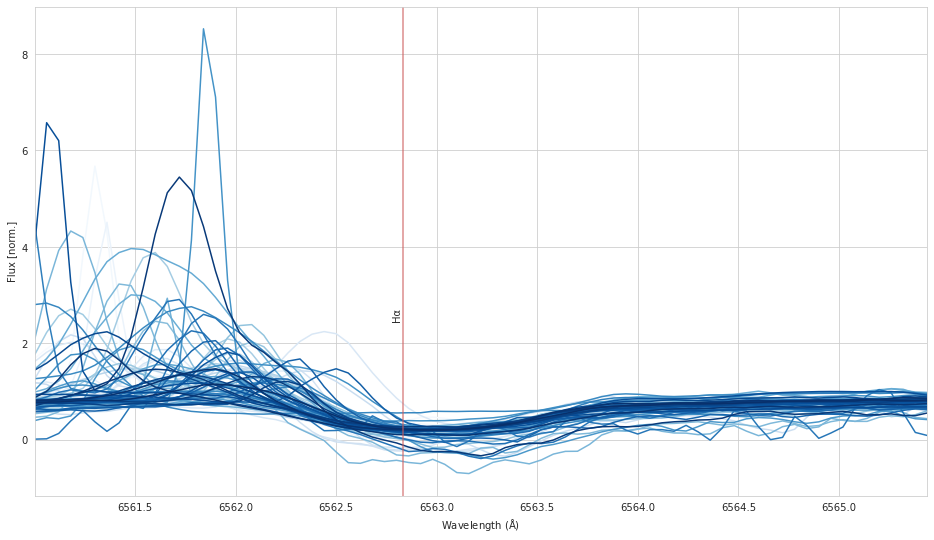
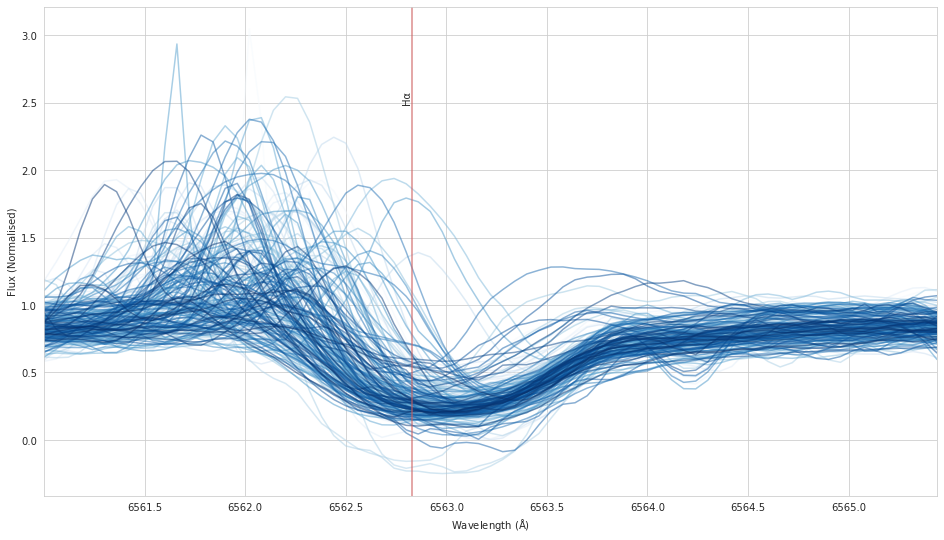
Updated ch 7

diff --git a/chap_6_nn.tex b/chap_6_nn.tex
@@ -1,5 +1,4 @@
-\chapter{Data Driven Classification of P Cygni and
-Inverse P Cygni Spectra with Autoencoders and DTW}
+\chapter{Data Driven Classification of Emission-line Spectra}
 
 \section{A Brief Recap}
 
@@ -8,18 +7,18 @@ The following conclusions can be drawn from the results presented in the precedi
 \begin{enumerate}
     \item The curse of dimensionality presents a significant challenge when working with high resolution data from million star surveys such as GALAH DR3. 
     \item While popular,  dimensionality reduction techniques such as t-SNE may not be sufficiently robust at identifying emission line spectra. Furthermore, the 2-dimensional t-SNE representation may not be sensitive to the morphological differences between emission line spectra and non-emission line spectra.
-    \item Given a data set with emission line spectra, DTW based aggolomerative hierarchical clustering can be used effectively to identify P Cygni and inverse P Cygni spectra.
+    \item Given a data set with emission line spectra, DTW based aggolomerative hierarchical clustering can be used effectively to identify P Cygni, inverse P Cygni and other emission-line spectra.
 \end{enumerate}
 
-This chapter builds on these conclusions and presents a proof of concept P Cygni and inverse P Cygni identification pipeline. DTW based agglomerative hierarchical clustering, which  was introduced in chapter 4, forms the basis of this pipeline. Furthermore, this pipeline relies on the pre-selection of H$\alpha$ emission line spectra using an autoencoder first introduced by Čotar et al.
+This chapter builds on these conclusions and presents a proof of concept pipeline for the identification and classification of emission-line spectra. DTW based agglomerative hierarchical clustering, which  was introduced in Chapter 4, forms the basis of this pipeline. Furthermore, this pipeline relies on the pre-selection of H$\upalpha$ emission-line spectra using an autoencoder first introduced by Čotar et al.
 
-\section{Autoencoders for H$\alpha$ Emission Line Spectra Selection}
+\section{Selecting H$\upalpha$ Emission-line Spectra}
 
-Chapter 3 presented an autoencoder neural network that is capable of identifying H$\alpha$ emission line spectra \cite{vcotar2021galah}. This work adapts this approach and exploits it as a pre-processing step prior to the application of DTW based agglomerative hierarchical clustering. The methodology is as follows.
+Chapter 3 presented an autoencoder neural network that is capable of identifying H$\upalpha$ emission line spectra \cite{vcotar2021galah}. This work adapts this approach and exploits it as a pre-processing step prior to the application of DTW based agglomerative hierarchical clustering. The methodology is as follows.
 
-This autoencoder learns the latent space representation of non-emission line spectra but does not learn the latent space representation of emission line spectra accurately. This latent space represents each higher dimensional high resolution spectrum as a 5-dimensional vector. This process is known as encoding. Once the training phase is completed, the autoencoder was fed the total DR3 data set such that it generates predictions for each spectrum. This process is known as decoding. 
+This autoencoder learns the latent space representation of non-emission line spectra but \emph{does not} learn the latent space representation of emission line spectra accurately. This latent space represents each higher dimensional high resolution spectrum as a 5-dimensional vector. This process is known as encoding. Once the training phase is completed, the autoencoder was fed the total DR3 data set such that it generates predictions for each spectrum. This process is known as decoding. 
 
-The training data is deliberately biased towards non-emission line spectra (so-called normal spectra). Thus for non-emission line spectra, the predicted spectra will match the data more accurately than for emission line spectra. The flux difference between a predicted spectrum and it's observed (original) data counterpart can be exploited to flag emission line stars. This flagging can be accomplished by computing the equivalent width of this "difference spectrum" around the H$\alpha$ line.
+The training data is deliberately biased towards non-emission line spectra (so-called normal or typical spectra). Thus for non-emission line spectra, the predicted spectra will match the data more accurately than for emission line spectra. The flux difference between a predicted spectrum and it's observed (original) data counterpart can be used to flag emission line stars. This flagging can be accomplished by computing the equivalent width of this "difference spectrum" around the H$\upalpha$ line.
 
 \subsection{Autoencoder Architecture and Training}
 
@@ -37,9 +36,9 @@ connections to neighboring layers.}
 
 Čotar et al. recommends inverting the flux values (1 - normalised flux) prior to training and prediction. Greater training stability was achieved by this inversion. Furthermore, they recommend an epoch size of 350 and a batch size of 40,000 spectra. 10\% of the samples were selected as the validation set. This work follows the same conventions. 
 
-For training, the autoencoder requires a training set that's either significantly biased towards non-emission line spectra around H$\alpha$ or contains non-emission line spectra exclusively. In order to select these spectra in DR3, this work uses the quality criteria recommended by Čotar et al.\cite{vcotar2021galah}, Buder et al.\cite{buder2021galah+} and Kos et al.\cite{kos2017galah}. 
+For training, the autoencoder requires a training set that's either significantly biased towards non-emission line spectra around H$\upalpha$ or contains non-emission line spectra exclusively. In order to select these spectra in DR3, this work uses the quality criteria recommended by Čotar et al.\cite{vcotar2021galah}, Buder et al.\cite{buder2021galah+} and Kos et al.\cite{kos2017galah}. 
 
-While these criteria cannot fully guarantee that the autoencoder will be trained on non-emission line spectra exclusively, prior work by Čotar et al. indicate that they are sufficiently robust for the purpose of training the network. The Data Central SQL/ADQL catalogue query service was used to retrieve GALAH DR3 \texttt{sobject\_id} values that matched these criteria.
+While these criteria cannot fully guarantee that the autoencoder will be trained on non-emission line spectra exclusively, prior work by Čotar et al. indicate that they are sufficiently robust for the purpose of training the network. The Data Central SQL/ADQL catalogue query service was used to retrieve GALAH DR3 \texttt{sobject\_id} values that matched these criteria. Namely,
 
 \begin{lstlisting}[language=SQL]
 SELECT sobject_id
@@ -71,15 +70,15 @@ This query returned 396,338 spectra. The red arm data was re-sampled to a common
 \caption{Prediction accuracy of the red arm training dataset at different training epochs.}
 \end{figure}
 
-The prediction error for training is computed as a sum of all absolute differences between the input and output data set. Figure 6.2 shows the prediction error of the training process as a function of epoch. At face value, it appears that over-fitting has taken place, however this is a desirable feature in the context of detecting emission line spectra as the network must be sufficiently biased towards non-emission line spectra. Furthermore, these results are in agreement with those presented in Čotar et al.
+The prediction error for training is computed as a sum of all absolute differences between the input and output data set. Figure 6.2 shows the prediction error of the training process as a function of epoch. These results are in agreement with those presented in Čotar et al.
 
-It is expected that the autoencoder will perform poorly when attempting to reconstruct or predict emission line spectra/fluxes. Conversely, it is expected that it will perform well on emission line spectra. This behaviour has significant implications for the detection of H$\alpha$ emission candidates.
+It is expected that the autoencoder will perform poorly when attempting to reconstruct or predict emission line spectra/fluxes. Conversely, it is expected that it will perform well on emission line spectra. This behaviour has significant implications for the detection of H$\upalpha$ emission-line spectra wjhich are discussed in the next section.
 
-\section{Prediction and Results}
+\subsection{Decoding and Prediction}
 
 Once the autoencoder was trained, predicted normalised flux of the red arm for each spectrum in DR3 was calculated. Since the input data for training was inverted, all DR3 spectra were inverted prior to input. Thus predicted results from the autoencoder were also inverted.
 
-The difference spectra between the predicted and the original DR3 spectra (observed spectra) were computed. Presented below are the inverted difference spectra for a non-emission line spectrum and a known emission line spectrum in DR3 around H$\alpha$. Note that the non-emission line spectrum produces a difference spectrum with an approximately flat response while the emission line spectrum does not. 
+The difference spectra between the predicted and the original DR3 spectra (observed spectra) were computed. Presented below are the inverted difference spectra for a non-emission line spectrum and a known emission line spectrum in DR3 around H$\upalpha$. Note that the non-emission line spectrum produces a difference spectrum with an approximately flat response while the emission line spectrum does not. 
 
 \begin{equation}
    f_{difference} = f_{observed} - f_{predicted}
@@ -97,42 +96,74 @@ The difference spectra between the predicted and the original DR3 spectra (obser
 \caption{An non-emission line spectrum, the autoencoder prediction and corresponding difference spectrum. Note the flat response of the difference spectrum. This response can be quantified by calculating its equivalent width.}
 \end{figure}
 
-The equivalent width within the range 6561\r{A} - 6565\r{A} was determined using the popular Python packages \texttt{astropy}\cite{astropy:2018}\cite{astropy:2013} and \texttt{specutils}\cite{specutils}. For consistency, these widths were calculated for the inverted difference spectra. Čotar et al. used an equivalent width cut-off of 0.25 to separate emission line spectra from DR3. This work follows the same approach. The histogram of equivalent widths of the 6,093 spectra thus obtained was examined and was in agreement with the results from Čotar et al. 
+The equivalent width within the range 6561\r{A} - 6565\r{A} was determined using the popular Python packages \texttt{astropy}\cite{astropy:2018}\cite{astropy:2013} and \texttt{specutils}\cite{specutils}. For consistency, these widths were calculated for the inverted difference spectra. Čotar et al. used an equivalent width cut-off of 0.25 to separate emission line spectra from DR3. This work tested the sensitivity of this cut-off parameter. Selecting a lower threshold for this parameter like EW > 0.20 allows for a wider selection of potential H$\upalpha$ emission-line spectra while a higher threshold such as EW > 0.50 may restrict the selection to only the strongest emitters. The rationale for choosing EW > 0.25 in Čotar et al. is presumably based on a trial and error approach. This work took a similar strategy to fine tune this parameter and select a reasonable population of H$\upalpha$ emission-line spectra by setting EW > 0.22. This value provided the best overall performance. However, this cut-off does not guarantee that the maximum number of H$\upalpha$ emission-line spectra is selected. 
+
+Given that Čotar et al. used a different population for their work, the H$\upalpha$ emission-line spectra discovered cannot be directly compared to those found in GALAH DR3 using the method above. It can be noted that only 4556 out of 10,364 objects identified by Čotar et al. were present in GALAH DR3 sample which comprised of 396,338 spectra. These 4556 were also captured and recovered within the H$\upalpha$ emission-line spectra discovered using the autoencoder and setting EW > 0.22. The summary statistics for each sample are provided in the appendix.
 
 \begin{figure}[!htb]
 \centering
 \includegraphics[scale=0.50]{figures/EW hist.png}
-\caption{The equivalent width (EW) distribution of the inverted difference spectra of the emission line candidates identified by the autoencoder. Here EW > 0.25.}
+\caption{The equivalent width (EW) distribution of the inverted difference spectra of the emission-line spectra identified in GALAH DR3. Here EW > 0.22.}
 \end{figure}
 
-\section{DTW Based Agglomerative Hierarchical Clustering}
 
-The next step in the analysis pipeline is identical to the methodology first introduced in Chapter 4. DTW distances were calculated for the emission line spectra and agglomerative hierarchical clustering was used to cluster and classify P Cygni and inverse P Cygni spectra. In addition to these clusters, eight other clusters were observed. Further details are provided in the Appendix.
+\section{Applying Dynamic Time Warping and Agglomerative Hierarchical Clustering}
+
+Once the H$\upalpha$ emission-line spectra were selected, the data was passed on-to the next step of the analytics pipeline. The DTW distance matrix was computed for each spectrum ensuring that only masked data was presented to the \texttt{FastDTW} algorithm. The masked region being 6561\r{A} - 6565\r{A} \cite{traven2017galah}. As mentioned Chapter 4 this approach reduces run-time and computational complexity. 
 
 \begin{figure}[!htb]
 \centering
-\includegraphics[scale=0.45]{figures/dtw distances dr3.png}
+\includegraphics[scale=0.50]{figures/dtw distances dr3.png}
 \caption{Pairwise DTW distances for emission line spectra identified in DR3. Darker colours indicate samples that are dissimilar.}
 \end{figure}
 
 \begin{figure}[!htb]
 \centering
-\includegraphics[scale=0.60]{figures/dtw distances dr3 zoomed.png}
-\caption{Pairwise DTW distances for emission line spectra identified in DR3. Darker colours indicate samples that are dissimilar (zoomed).}
+\includegraphics[scale=0.50]{figures/dtw distances dr3 zoomed.png}
+\caption{Pairwise DTW distances for emission line spectra identified in DR3 (zoomed). Darker colours indicate samples that are dissimilar.}
 \end{figure}
 
-Using this methodology, this work identified 33 P Cygni spectra and 85 inverse P Cygni spectra. Ensemble plots of these spectra are provided below.
+Once the distance calculation was completed, agglomerative hierarchical clustering was performed ensuring complete linkage. Here, this work deviates from the number of clusters used in Chapter 4. It was noted that the H$\upalpha$ emission-line spectra identified in the previous stage of the pipeline exhibited more complex emission line morphologies than those identified by Čotar et al. 
+
+This richer variety of morphologies can be attributed to the fact that the DR3 population is fundamentally different to the survey data used by Čotar et al. This can be demonstrated by observing the number of P Cygni spectra that separate into a cluster as the number of clusters is increased beyond the value 10 used in Chapter 4. The maximum number of P Cygni and inverse P Cygni were separated when the number of clusters was set to 45. This is significantly higher than what was observed in the results presented in Chapter 4. The tree generated by agglomerative hierarchical clustering is thus cut at a depth of 45 as opposed to 10 for this specific sample for a majority separation of P Cygni and inverse P Cygni spectra. 
 
 \begin{figure}[!htb]
 \centering
 \includegraphics[scale=0.45]{figures/p cygni ensemble.png}
-\caption{P Cygni spectra identified. Note that one outlier is present in this cluster.}
+\caption{Ensemble plot of 243 P Cygni spectra identified in DR3 using DTW.}
+\end{figure}
+
+\begin{figure}[!htb]
+\centering
+\includegraphics[scale=0.45]{figures/p cugni 2.png}
+\caption{Ensemble plot of 53 P Cygni spectra identified in DR3 using DTW. These were not included in the main P Cygni cluster but appeared in a separate group, likely due to less prominent absorption feature near H$\upalpha$}
 \end{figure}
 
 \begin{figure}[!htb]
 \centering
 \includegraphics[scale=0.45]{figures/inverse p cygni ensemble.png}
-\caption{The cluster of inverse P Cygni spectra.}
+\caption{Ensemble plot of 219 P Cygni spectra identified in DR3 using DTW.}
 \end{figure}
+
+The significant advantage of utilizing a higher number of clusters than 10 is that if as in the case of DR3, more peculiar emission-line spectra are present, they will be separated from the total data set more effectively i.e. there is no scheme by which these extremely peculiar yet non-numerous spectra can hide in a larger set of data points. These peculiar spectra would form their own minority clusters within the overall hierarchy of the tree generated by the clustering procedure. As far as the author is aware, there exists no precedent in literature for selecting 45 distinct classes for emission-line spectra, however given that the process outlined here is entirely data driven it is justifiable given the majority separation result for P Cygni and inverse P Cygni spectra as well as the identification of peculiar sub species in DR3 which have not been classified previously. Additional details are provided in the Appendix. Manual inspection of key classes were carried out using a dynamic plot created by using the \texttt{plotly} package.
+
+\begin{figure}[!htb]
+\centering
+\includegraphics[scale=0.45]{figures/double peak 1.png}
+\caption{Ensemble plot of 67 double peaked emission-line spectra identified in DR3 using DTW.}
+\end{figure}
+
+\begin{figure}[!htb]
+\centering
+\includegraphics[scale=0.45]{figures/emission on abs.png}
+\caption{Ensemble plot of 46 self absorption type spectra identified in DR3 using DTW.}
+\end{figure}
+
+
+
+
+
+
+
 
 

diff --git a/chap_7_conclusion.tex b/chap_7_conclusion.tex
@@ -1,8 +1,47 @@
-\begin{savequote}[45mm]
-If cats looked like frogs we'd realize what nasty, cruel little bastards they are. Style. That's what people remember.
-\qauthor{Terry Pratchett}
-\end{savequote}
+\chapter{Conclusion and Future Work}
 
-\chapter{Conclusion}
+\section{Concluding Remarks}
 
-Not a very interesting conclusion, however you'll need one for your thesis.
+The twin problems of identification and classification of non-typical spectra such as H$\alpha$ emission-line stars can be overcome using a combination of dimensionality reduction, anomaly detection and spectral morphology based clustering. This approach provides a significant advantage over more recent methods that rely on manual human intervention to identify and classify P Cygni, inverse P Cygni and other species of emission0line spectra \cite{zhang2021catalog} \cite{zhao2012lamost}. A key advantage of the work presented in thesis is that it does not require a labelled training set of emission-line spectra to effectively group such spectra in a large scale survey but rather takes a data driven approach. It can thus be demonstrated that if the code, data structures, algorithms and strategy are picked carefully, emission-line spectra can be identified and classified with reasonable computational efficiency with complexity $O(N)$ without requiring a human being to review thousands and potentially hundreds of thousands of spectra.
+
+The autonencoder used in this work functions as an anomaly detector and is capable of flagging spectra with emission-line features. This is a mature and well established methodology in domains such as credit card fraud detection. This approach can be extended to other domains in astronomy that require the detection of atypical signals from a large volume of more typical signals. Dynamic time warping is a well established signal processing and machine learning algorithm that is sensitive to shapes and morphologies of signals over other features and consequently can be extended to other domains in astronomy where the morphological features of a signal play a dominant role over other features. To this author's knowledge, casting spectra as time series and using DTW has not been used to identify and classify spectra in the literature and consequently is an entirely novel approach. 
+
+Despite the robustness of this complex pipeline, challenges and opportunities remain. With agglomerative hierarchical clustering in particular, this work demonstrated that the number of clusters and consequently the depth of the hierarchical tree is sensitive to the population mix over which the algorithm is run. In the case of DR3, the maximum number of P Cygni and inverse P Cygni spectra were separated when the number of clusters was set to 45. While the literature informed this work that the number of clusters must be greater than 6 or even 10, determining this value for the emission-line population present in DR3 required an iterative approach of setting the number of clusters and tracking the number of spectra separated from the primary population as P Cygni and inverse P Cygni. While this is not significantly time consuming, it does require a human being to specify a parameter to extract meaningful and useful clusters from the broader emission-line population. 
+
+The larger number of clusters was beneficial in classification of more atypical and exotic spectra. This "over-classification" can be extremely beneficial for researchers that study more exotic emission-line spectra as well as being a useful mechanism to foster further analysis on whether some of the minority classes can indeed be combined with the majority classes that appear at higher levels of the hierarchical tree. These decisions can now be left to the researcher and can be informed by domain knowledge of the peculiar object being studied. For example, it is clear that the clusters presented below can be combined meaningfully into a single P Cygni cluster, thus netting a total of 296 P Cygni spectra. Over classification, prior to merging is thus a beneficial outcome of this approach. 
+
+\begin{figure}[!htb]
+\centering
+\includegraphics[scale=0.45]{figures/p cygni ensemble.png}
+\caption{Ensemble plot of 243 P Cygni spectra identified in DR3 using DTW.}
+\end{figure}
+
+\begin{figure}[!htb]
+\centering
+\includegraphics[scale=0.45]{figures/p cugni 2.png}
+\caption{Ensemble plot of 53 P Cygni spectra identified in DR3 using DTW. These were not included in the main P Cygni cluster but appeared in a separate group, likely due to less prominent absorption feature near H$\upalpha$. These can be combined with the majority P Cygni cluster to give 296 P Cygni spectra in total.}
+\end{figure}
+
+The equivalent width cut-off that selects H$\alpha$ emission-line spectra from the broader DR3 data set is another significant parameter that impacts the final population of classified emission-line stars. The degree to which this population is influenced by this parameter remains unclear. Unlike the number of clusters, there exists no suitbale guiding values for this parameter in the literature apart from the figure presented in Čotar et al. It can be hypothesised that this parameter is linked to the decoding accuracy of the autoencoder but the details of this relationship is beyond the scope of this work. 
+
+\section{Future Work}
+
+\subsection{Emission-line Spectra in GALAH DR4}
+
+The GALAH survey has generated more data since DR3. Yet to be released as a public data release, this new data set will contain $\sim$ X spectra. This work will be extended to this next data release. Once these emission-line spectra have been identified and classified, a catalog of emission-line stars, and in particular P Cygni and inverse P Cygni spectra can be released. This requires cross matching the sources with other catalogues such as SIMBAD and Gaia data.
+
+\subsection{Characterising Emission-line Spectra}
+
+Given the number classes that were identified, it would be extremely useful to characterise each group. More importantly, the stellar parameters of these members deserve reevaluation as the spectra deviate significantly from more typical spectra. It is expected that the stellar parameters for these objects that have already been determined by more standard pipelines may have higher uncertainties compared to those of more typical spectra. Parameters such as effective temperature and stellar masses can be reevaluated for these emission-line spectra outside the primary pipelines.
+
+\subsection{Extending to Other Domains}
+
+Dynamic time (wavelength) warping and agglomerative hierarchical clustering are sufficiently generalised methods and can be adapted to a range of problems and sub domains. For example, they can be used to cluster light curves, gravitational waves and radio spectra. Combined with an anomaly detection mechanism such as an autoencoder, these methods can be used to detect highly specific morphologies and signals hidden in large data sets containing typical (normal or non-anomalous) data. 
+
+\subsection{Exploring Dimensionality Reduction for High Resolution Spectra}
+
+Dimensionality reduction remains an extremely useful tool when analysing high dimensional data and feature spaces, thus serving as a tool to potentially overcome the curse of dimensionality. However, it remains unclear which suitable lower dimensional representation of high resolution spectra is more useful in a particular context or set of problems. For example, in the context of clustering morphologically similar spectra, it can be argued that the 5-dimensional representation of the spectra in a latent space formed by the autoencoder was more discriminatory than the 2-dimensional space formed using t-SNE. Are there any general principles or rules that can dictate these decisions for future work? In applications where clustering based on another parameter (e.g. effective temperature or metallicity), which lower dimensional representation will yield the best performance? As the volume and complexity of data from large scale surveys continue to grow, determining the most suitable lower dimensional representation or projection of spectra for a given problem can be extremely useful in reducing the complexity of the data analytics process as well as reducing the computing overheads. These and related questions remain unanswered at present.
+
+\subsection{Building Training Data Sets}
+
+One of the key hurdles a researcher may face when attempting to identify and classify patterns in data using automated methods and machine learning is the lack of training data. Supervised machine learning methods cannot be used in such circumstances. With this work, hundreds of P Cygni and inverse P Cygni spectra have been identified. Additionally other rare species of spectra have also been identified. These can potentially be used to generate a training set for supervised learning algorithms. Care should be taken however when developing these training data sets. It is often important that the training data set accurately reflects the statistics of the population it is attempting to generalise and represent. Thus approaches like stratified sampling must be incorporated into these efforts for the best overall results. 

diff --git a/chap_appendix.tex b/chap_appendix.tex
@@ -1,4 +1,46 @@
-\chapter{An Appendix}
+\chapter{Appendix}
 
-This is an appendix.  Add anything in here that you need in an appendix.
+\section{Appendix C - Chapter 6}
+
+\begin{table}[!htb]
+\begin{center}
+\begin{tabular}{|l|l|}
+\hline
+\textbf{count} & 7067.000000 \\ \hline
+\textbf{mean} & 0.532952 \\ \hline
+\textbf{std} & 0.444046 \\ \hline
+\textbf{min} & 0.220042 \\ \hline
+\textbf{25\%} & 0.280778 \\ \hline
+\textbf{50\%} & 0.388232 \\ \hline
+\textbf{75\%} & 0.562633 \\ \hline
+\textbf{max} & 5.055410 \\ \hline
+\end{tabular}
+\caption{EW distribution summary statistics for emission-line stars identified in GALAH DR3}
+\label{table:draglift1}
+\end{center}
+\end{table}
+
+\begin{table}[!htb]
+\begin{center}
+\begin{tabular}{|l|l|}
+\hline
+\textbf{count} & 10364.000000 \\ \hline
+\textbf{mean} & 0.539950 \\ \hline
+\textbf{std} & 0.420590 \\ \hline
+\textbf{min} & 0.250070 \\ \hline
+\textbf{25\%} & 0.298572 \\ \hline
+\textbf{50\%} & 0.392470 \\ \hline
+\textbf{75\%} & 0.592625 \\ \hline
+\textbf{max} & 5.369496 \\ \hline
+\end{tabular}
+\caption{EW distribution summary statistics for emission-line stars identified by Čotar et al. (various surveys).}
+\label{table:draglift1}
+\end{center}
+\end{table}
+
+\begin{figure}[!htb]
+\centering
+\includegraphics[scale=0.50]{figures/EW hist cotar.png}
+\caption{The equivalent width (EW) distribution of the inverted difference spectra of the emission-line spectra provided by Čotar et al. Here EW > 0.25. Note that this sample contains additional spectra not in GALAH DR3.}
+\end{figure}
 
